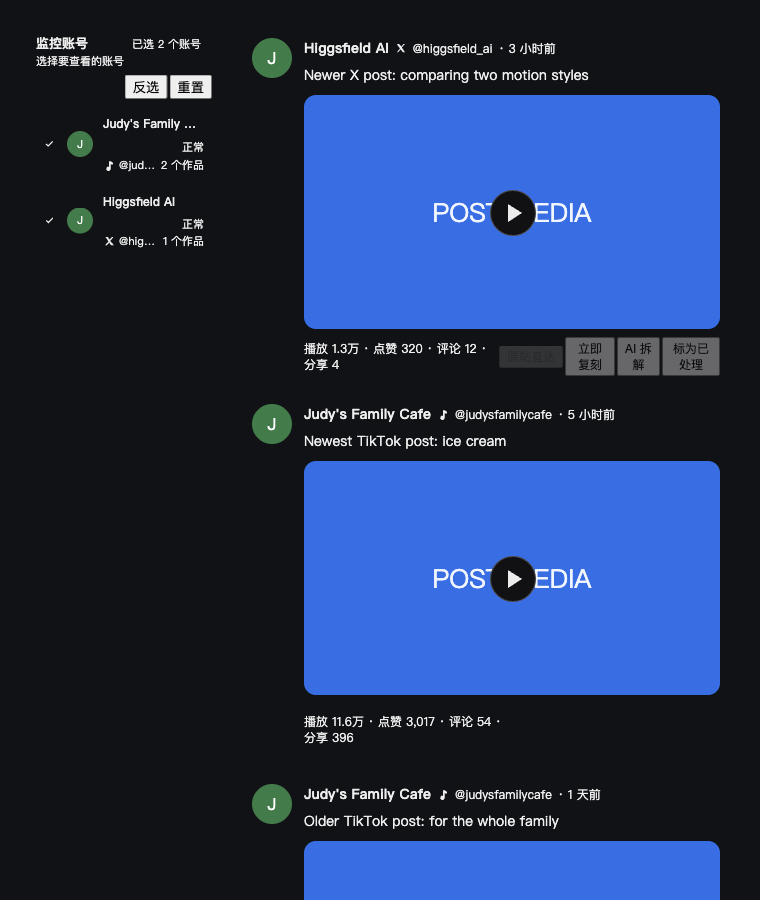
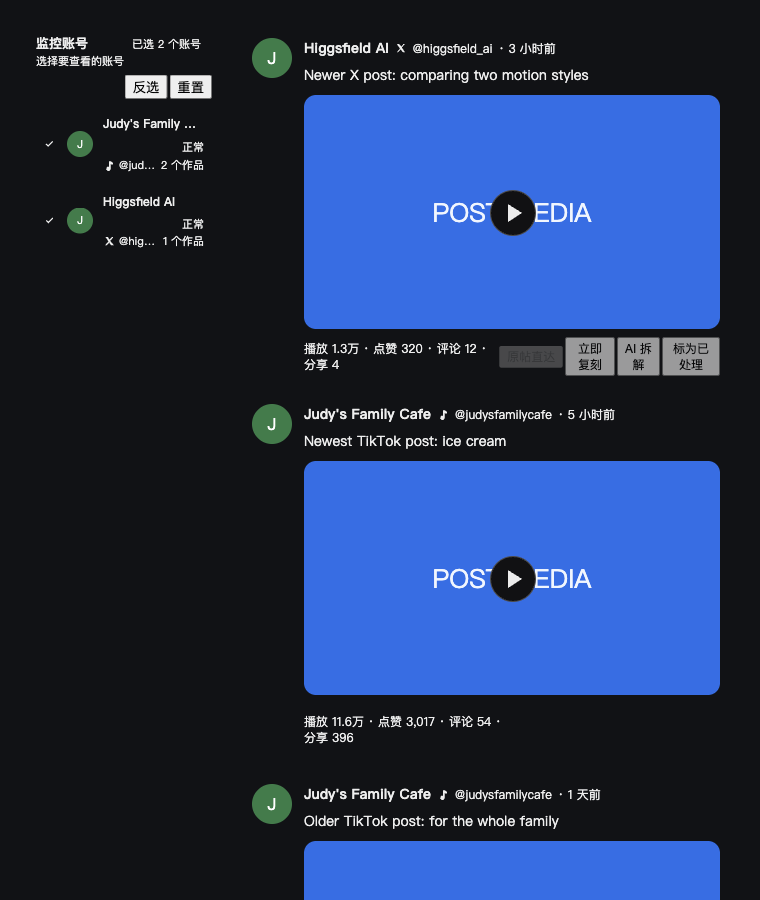
fix(inspiration): 账号监控分页竞态与窄屏操作行整改 (#3432)
- use-rival-feed: page-1 reload 开始时清除 loadingMore，stale append finally 无条件清理，修复切换账号后分页永久卡死
- canLoadMore 增加 !fetching，首采期间不触发追加
- 375/720 窄屏时间线 foot 换行、操作行独占一行且可换行；真实浏览器断言最后一个操作按钮在行内
- markDone 乐观状态按 feed 对账：POST 失败回滚并提示失败；离开列表的行自动移出本地集合
- 清理退役弹层文案/注释与 report 字节数；spec 与实现（rivalCardTypeOf 仍由灵感库使用）对齐
- 新增 page2 失败只请求一次、pending append + 切换账号不卡死两条 page e2e；证据更新

Changed region(s): [[0.7263, 0.3733, 0.9684, 0.4356]]

diff --git a/plugins/omnimux-inspiration/src/client/rival-cards.e2e.test.js b/plugins/omnimux-inspiration/src/client/rival-cards.e2e.test.js
@@ -235,10 +235,15 @@ async function mountStageOnAccounts() {
       const requested = (query.get('accounts') || '').split(',').filter(Boolean)
       const page = Number(query.get('page') || 1)
       postsRequests.push(query.toString())
-      const all = pages.flat()
+      const all = pages.flat().filter((row) => row && row.account)
+      const entry = pages.at(page - 1)
       const visible = requested.length > 0
         ? all.filter((row) => requested.includes(row.account.id))
-        : (pages.at(page - 1) ?? [])
+        : (entry && Array.isArray(entry.rows) ? entry.rows : (entry ?? []))
+      if (entry && entry.fail) {
+        return jsonResponse(500, { success: false, error: 'feed-page-failed' })
+      }
+      if (entry && entry.hold) await entry.hold
       return jsonResponse(200, {
         success: true,
         data: {
@@ -362,6 +367,57 @@ describe('账号监控 — timeline page wiring (#3432)', () => {
     assert.deepEqual(itemIds(mounted.container), payload.map((row) => row.row_id), 'the appended page must land below the rows already on screen, in publish order')
     assert.ok(mounted.postsRequests.some((query) => /(?:^|&)page=2(?:&|$)/.test(query)), 'crossing the sentinel must request the next page')
     assert.equal(mounted.container.querySelectorAll('.omnimux-rival-timeline-sentinel').length, 0, 'the sentinel goes away once the last page is on screen')
+  })
+
+  it('stops appending after a failed next page and never retries in a loop', async () => {
+    const payload = hostPayload()
+    requestedPages = [payload.slice(0, 6), { fail: true }]
+    const mounted = await mountStageOnAccounts()
+    open.push(mounted)
+    assert.equal(mounted.container.querySelectorAll('.omnimux-rival-timeline-sentinel').length, 1, 'page one keeps its sentinel')
+
+    await mounted.loadMore()
+    await settle(mounted.container, () => mounted.postsRequests.some((query) => /(?:^|&)page=2(?:&|$)/.test(query)))
+    await act(async () => { await new Promise((resolve) => setTimeout(resolve, 120)) })
+    const pageTwo = () => mounted.postsRequests.filter((query) => /(?:^|&)page=2(?:&|$)/.test(query)).length
+    assert.equal(pageTwo(), 1, 'a failed append must be requested exactly once')
+    assert.equal(mounted.container.querySelectorAll('.omnimux-rival-timeline-sentinel').length, 0, 'a failed append must remove the sentinel instead of retrying it')
+    assert.equal(mounted.container.querySelectorAll('.omnimux-rival-timeline-skel').length, 0, 'a failed append must clear its skeleton')
+    await act(async () => { await new Promise((resolve) => setTimeout(resolve, 150)) })
+    assert.equal(pageTwo(), 1, 'no background retry may follow the failure')
+  })
+
+  it('does not dead-lock the append flag when a page-1 reload supersedes an in-flight page', async () => {
+    const payload = hostPayload()
+    let release
+    const hold = new Promise((resolve) => { release = resolve })
+    requestedPages = [payload.slice(0, 6), { rows: payload.slice(6), hold }]
+    const mounted = await mountStageOnAccounts()
+    open.push(mounted)
+    await mounted.loadMore()
+    await settle(mounted.container, () => mounted.postsRequests.some((query) => /(?:^|&)page=2(?:&|$)/.test(query)))
+
+    // Switch accounts while the append is still in flight.
+    const higgs = ACCOUNTS.higgs
+    const pendingRow = mounted.container.querySelector(`.omnimux-rival-accounts [data-account-id="${higgs.id}"]`)
+    await act(async () => {
+      pendingRow.dispatchEvent(new mounted.container.ownerDocument.defaultView.MouseEvent('click', { bubbles: true }))
+      await new Promise((resolve) => setTimeout(resolve, 30))
+    })
+    release()
+    await act(async () => { await new Promise((resolve) => setTimeout(resolve, 120)) })
+    assert.equal(mounted.container.querySelectorAll('.omnimux-rival-timeline-skel').length, 0, 'the stale append must not leave its skeleton behind')
+
+    // Reset back to all accounts and append again: the flag must not be stuck.
+    const reset = mounted.container.querySelector('.omnimux-rival-accounts-actions button:last-child')
+    await act(async () => {
+      reset.dispatchEvent(new mounted.container.ownerDocument.defaultView.MouseEvent('click', { bubbles: true }))
+      await new Promise((resolve) => setTimeout(resolve, 30))
+    })
+    await settle(mounted.container, () => mounted.container.querySelectorAll('.omnimux-rival-timeline-item').length === 6)
+    await mounted.loadMore()
+    await settle(mounted.container, () => mounted.container.querySelectorAll('.omnimux-rival-timeline-item').length === payload.length)
+    assert.equal(mounted.container.querySelectorAll('.omnimux-rival-timeline-skel').length, 0, 'the recovered append must finish without a stuck skeleton')
   })
 
   it('narrows the timeline through the persistent account column', async () => {

diff --git a/plugins/omnimux-inspiration/src/client/RivalAccountsPanel.jsx b/plugins/omnimux-inspiration/src/client/RivalAccountsPanel.jsx
@@ -174,23 +174,44 @@ export function RivalAccountsPanel(props) {
     const accountId = String(card?.account_id || card?.account?.id || '')
     const postId = String(card?.post_id || card?.id || '')
     const ticket = String(card?.id || '')
-    if (ticket) setDoneIds((previous) => {
-      if (previous.has(ticket)) return previous
-      const next = new Set(previous)
-      next.add(ticket)
-      return next
-    })
-    setNotice({ key: 'rivalFeed.toast.markDone' })
+    const flip = (on) => {
+      if (!ticket) return
+      setDoneIds((previous) => {
+        if (on === previous.has(ticket)) return previous
+        const next = new Set(previous)
+        if (on) next.add(ticket)
+        else next.delete(ticket)
+        return next
+      })
+    }
+    flip(true)
     if (!accountId || !postId) return
     try {
-      await markRivalPostDone(accountId, postId)
+      const result = await markRivalPostDone(accountId, postId)
+      if (result && result.ok === false) {
+        flip(false)
+        setNotice({ key: 'rivalAccounts.post.attachFailed' })
+        return
+      }
+      setNotice({ key: 'rivalFeed.toast.markDone' })
     } catch {
-      // The optimistic state stands until the next full reload; the toast has
-      // already said the action was recorded.
+      flip(false)
+      setNotice({ key: 'rivalAccounts.post.attachFailed' })
     }
   }, [])
 
   const emptyKind = feedEmptyKind(feed)
+
+  // The optimistic set is a view of the current feed page: rows that disappear
+  // with a selection change must not linger and mask a later Host state.
+  useEffect(() => {
+    setDoneIds((previous) => {
+      if (previous.size === 0) return previous
+      const live = new Set(feed.cards.map((card) => String(card?.id ?? '')))
+      const next = new Set([...previous].filter((id) => live.has(id)))
+      return next.size === previous.size ? previous : next
+    })
+  }, [feed.cards])
 
   // Merge the optimistic「已处理」set over the Host cards without mutating them.
   const timelineCards = useMemo(() => {
@@ -244,7 +265,7 @@ export function RivalAccountsPanel(props) {
           busyId={busyId}
           hasMore={feed.hasMore === true}
           loadingMore={feed.loadingMore === true}
-          canLoadMore={feed.hasMore === true && feed.loadingMore !== true && feed.loading !== true && !feed.error && !feed.fetchPhase}
+          canLoadMore={feed.hasMore === true && feed.loadingMore !== true && feed.loading !== true && !feed.fetching && !feed.error && !feed.fetchPhase}
           onLoadMore={feed.loadMore}
           onDetail={handleDetail}
           onReplicate={handleReplicate}

diff --git a/plugins/omnimux-inspiration/src/client/RivalAccountFilter.jsx b/plugins/omnimux-inspiration/src/client/RivalAccountFilter.jsx
@@ -1,13 +1,11 @@
 /**
- * 「账号筛选（多选）」— the 32px trigger and its frosted multi-select panel.
+ * One monitored-account row of the 账号监控 account column (#3432).
  *
- * The panel is the *only* account control of the 账号监控 tab: the two-column
- * workbench it replaced is gone, so monitoring an account now means choosing it
- * from this list, and the grid below follows the selection immediately.
- *
- * Presentational: the selection lives in `use-rival-feed.js` and arrives as
- * props, so「反选」「重置」and the per-row checkbox are the same three rules the
- * unit tests pin down.
+ * The popover that used to wrap these rows is retired; the row itself is still
+ * the single place the four health states, the profile jump and the retry
+ * action are rendered. Presentational: the selection lives in
+ * `use-rival-feed.js` and arrives as props, so「反选」「重置」and the checkbox are
+ * the same three rules the unit tests pin down.
  */
 
 import { useState } from 'react'

diff --git a/plugins/omnimux-inspiration/src/client/use-rival-feed.js b/plugins/omnimux-inspiration/src/client/use-rival-feed.js
@@ -292,6 +292,10 @@ export function useRivalFeed(options = {}) {
     latest.current += 1
     const ticket = latest.current
     setLoading(true)
+    // A page-1 reload supersedes any in-flight append: its stale finally will
+    // not clear the append flag, so reset it here or loadMore stays blocked
+    // forever after the user switches accounts mid-append (#3432 review P1).
+    setLoadingMore(false)
     setError(null)
     try {
       const accountRes = await api.fetchRivalAccounts({})
@@ -408,7 +412,9 @@ export function useRivalFeed(options = {}) {
       if (!isCurrent(ticket)) return
       setError('rivalAccounts.error.failed')
     } finally {
-      if (isCurrent(ticket)) setLoadingMore(false)
+      // Clear on stale responses too: a newer page-1 reload has already reset
+      // the flag, and leaving it true would dead-lock the append path.
+      setLoadingMore(false)
     }
   }, [api, enabled, hasMore, isCurrent, loading, loadingMore, page, platform, query, sort])
 

diff --git a/plugins/omnimux-inspiration/src/client/locales.js b/plugins/omnimux-inspiration/src/client/locales.js
@@ -167,8 +167,6 @@ export const zh = {
   'date.last90': '📅 近 90 天',
   'tab.local': '灵感库',
   'tab.public': '爆款趋势',
-  'rivalFilter.trigger': '账号筛选（多选）',
-  'rivalFilter.title': '监控账号筛选 (多选)',
   'rivalFilter.invert': '反选',
   'rivalFilter.reset': '重置',
   'rivalFilter.all': '账号',
@@ -648,8 +646,6 @@ export const en = {
   'date.last90': '📅 Last 90 Days',
   'tab.local': 'Library',
   'tab.public': 'Trending',
-  'rivalFilter.trigger': 'Account filter (multi-select)',
-  'rivalFilter.title': 'Monitored accounts (multi-select)',
   'rivalFilter.invert': 'Invert',
   'rivalFilter.reset': 'Reset',
   'rivalFilter.all': 'Accounts',

diff --git a/plugins/omnimux-inspiration/src/client/rival-styles.js b/plugins/omnimux-inspiration/src/client/rival-styles.js
@@ -1102,6 +1102,16 @@ export const RIVAL_CSS = `
     opacity: 1;
   }
 }
+@media (max-width: 720px) {
+  .omnimux-rival-timeline-foot {
+    flex-wrap: wrap;
+  }
+  .omnimux-rival-timeline-actions {
+    flex: 1 1 100%;
+    flex-wrap: wrap;
+    justify-content: flex-start;
+  }
+}
 .omnimux-rival-timeline-act {
   font-size: 12px;
 }

diff --git a/plugins/omnimux-inspiration/src/client/account-monitor-feed-render.test.js b/plugins/omnimux-inspiration/src/client/account-monitor-feed-render.test.js
@@ -118,7 +118,6 @@ const WORKS = [WORK_ALICE, WORK_BOB]
 
 /** Labels the gate drives the UI by, taken from the plugin's own table. */
 const L = {
-  filterTitle: zh['rivalFilter.title'],
   columnTitle: zh['rivalAccounts.column.title'],
   columnHint: zh['rivalAccounts.column.hint'],
   invert: zh['rivalFilter.invert'],

diff --git a/.agent-reports/inspiration-monitor-timeline-3432/report.md b/.agent-reports/inspiration-monitor-timeline-3432/report.md
@@ -14,10 +14,10 @@
 
 ## 真实浏览器证据（隔离工作树）
 
-- 真实 `RivalAccountColumn` + `RivalAccountsPanel` 放在 `.omnimux-rival-layout` 两栏中，使用真实 `toggleAccountSelection`；localhost 动态端口 59965，ego-browser 真实 Chromium。
+- 真实 `RivalAccountColumn` + `RivalAccountsPanel` 放在 `.omnimux-rival-layout` 两栏中，使用真实 `toggleAccountSelection`；localhost 动态端口 64253，ego-browser 真实 Chromium。
 - 初始（响应式宿主，1280 视口）：布局 `248px 968px`；账号 2 行且默认全勾选；时间线 3 条且按发布时间倒序（`riv_higgs:2 → riv_judy:3 → riv_judy:1`）；首行头像/媒体自然宽 > 0、播放标记、正文、相对时间、播放/点赞/评论/分享与 4 个操作按钮（原帖/立即复刻/AI 解构/标为已处理；默认 hover/focus 显示，触屏媒体查询常显）。
 - 取消勾选 X 账号：账号行 1 行勾选，右栏只剩 2 条 TikTok 帖；点重置：恢复 2 行勾选与 3 条帖。
-- 窄视口：760px 时两栏（`200px 500px`，左栏 200px），375px 时堆叠单列（`327px`）且 `scrollOverflow=0`；截图 `browser-timeline-narrow-760-3432.png`、`browser-timeline-narrow-375-3432.png`。
+- 窄视口：760px 时两栏（`200px 500px`，左栏 200px），375px 时堆叠单列（`327px`）且 `scrollOverflow=0`、操作行最后一个按钮在行内（`actionsOverflow` 分别为 -16 / -183px）；截图 `browser-timeline-narrow-760-3432.png`、`browser-timeline-narrow-375-3432.png`。
 - 截图：`browser-timeline-initial-3432.png`、`browser-timeline-filtered-3432.png`；结构化事实：`browser-facts.json`。
 - 限制：组件级真实浏览器证据，不证明完整 Stage 外壳；外壳装配由隔离 worktree 的 jsdom page 门禁与后续 Dev 页面覆盖。
 
@@ -25,14 +25,14 @@
 
 | 检查 | 实际结果 |
 | --- | --- |
-| 插件核心套件（含新增时间线纯函数/渲染/page e2e） | 1632 项，1632 通过，0 失败，0 skip，0 外连 |
+| 插件核心套件（含新增时间线纯函数/渲染/page e2e） | 1634 项，1634 通过，0 失败，0 skip，0 外连 |
 | `src/explore` 套件 | 261 项全部通过 |
 | `node scripts/verify-stage-contracts.mjs` | PASS（14 Stage / 8 sidebar） |
 | `node --test scripts/verify-anti-slop.test.mjs` | 3/3 通过 |
 | `node scripts/scan-ui-gates.mjs` | 退出 1；与 main 同为 8 条既有违规（均在其它插件），inspiration 0 条；新时间线媒体遮罩已改用 media token |
-| `node scripts/build-client.mjs` | 成功，`lib/client.js` 2,384,359 bytes（gitignored） |
+| `node scripts/build-client.mjs` | 成功，`lib/client.js` 2,387,528 bytes（gitignored） |
 | `node scripts/impact-matrix.mjs --git-diff --base origin/main` | `isUiChange=true`、`browser.required=true` |
 
 ## 边界
 
-不改 Host 数据/接口/额度/刷新；不改灵感库与爆款趋势；旧瀑布流卡片与账号弹层在账号监控中不再使用（其组件与测试清理见提交 diff）。
+不改 Host 数据/接口/额度/刷新；不改灵感库与爆款趋势。`RivalMasonry` / `RivalPostCard` 仍被灵感库消费，保留；账号监控只停止渲染它们，并删除退役弹层 UI 与相关文案/样式。

diff --git a/specs/3432-monitor-timeline-layout.spec.md b/specs/3432-monitor-timeline-layout.spec.md
@@ -25,7 +25,7 @@ base: 87e7c83bb76cb6feef642b453b95045f8d30b575
 - `InspirationSection`：rivals tab 内容改为 `.omnimux-rival-layout` 两栏；工具栏删除 `RivalAccountFilter` 与排序下拉；`useRivalFeed` 排序固定 `latest`。
 - `RivalAccountsPanel`：有帖子时渲染时间线（含追加 sentinel，且只在 idle 时触发一次；失败不自动重试），「标为已处理」做本地乐观翻转，状态文案区分已处理/已复刻/已互动；无帖子时沿用现有空态/骨架/首采进度。
 - `toRivalCardRow` 增补 `text`、`avatar_url`、`account.avatar_url`（additive，不影响其它消费者）。
-- 账号监控不再消费 `RivalMasonry` / `RivalPostCard` / `rival-masonry.js`；它们仍被灵感库消费，保留组件与单测。`RivalAccountFilter` 退役 trigger/panel 与相关文案/样式删除，只保留可复用的账号行；`RivalFeedGrid` 去掉卡片/瀑布流渲染，只保留空态/骨架/首采进度。
+- 账号监控不再渲染 `RivalMasonry` / `RivalPostCard`；它们的纯函数 `rivalCardTypeOf` 仍被 `rival-filter.js` 与灵感库复用，组件与单测保留。`RivalAccountFilter` 退役 trigger/panel 与相关文案/样式删除，只保留可复用的账号行；`RivalFeedGrid` 去掉卡片/瀑布流渲染，只保留空态/骨架/首采进度。
 - `rival-styles.js`：删除瀑布流/卡片/筛选弹层样式，新增两栏与时间线样式；响应式窄视口左栏收窄、不横向溢出。
 
 ## 验收用例
